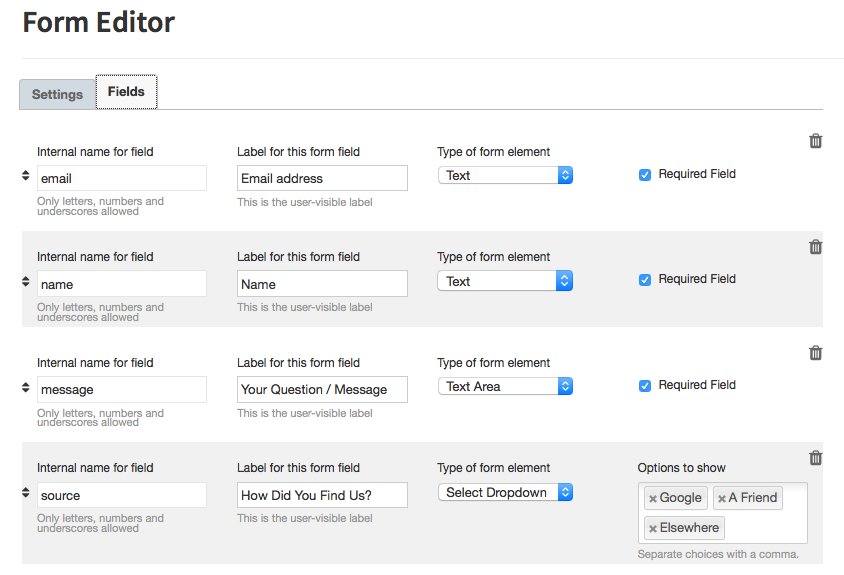
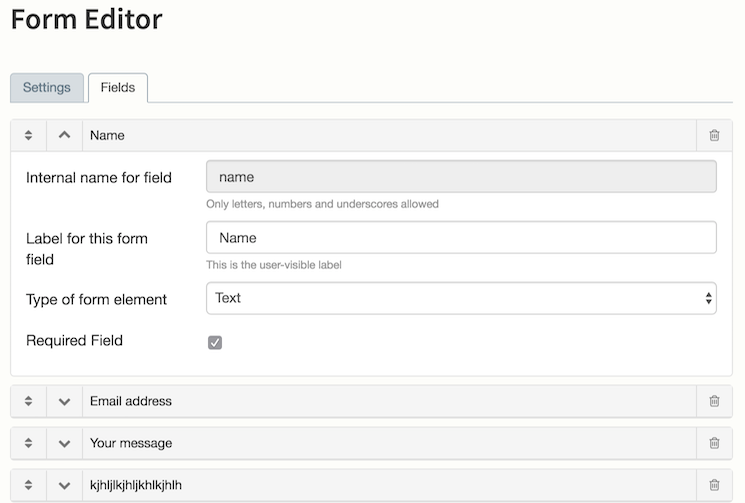
Added gulp fro development purposes. This will copy all the js and css files to the public extension folder. Renamed menu title Restyled the fields tab Removed the Bolt namespace for the javascript. Threw an error if Bolt didn't exist Added new screenshot with new style

diff --git a/assets/formeditor.js b/assets/formeditor.js
@@ -1,49 +1,71 @@
-Bolt.formeditor = {
-    
+formeditor = {
     fieldCollectionCount: 0,
-    
+
     init: function() {
         var controller = this;
         $("#form_field_add").on('click', function(){
             controller.addField();
         });
-        
-        $("#form_fields").sortable();
-        $('#form_fields select.choices-row').select2({tags: true, tokenSeparators: [',']});
-        
-        $('#form_fields').on('click', '.delete-icon .form-row-delete', function(e){ 
-            controller.deleteField($(this));      
+
+        $("#form_field_list").sortable({
+            placeholder: 'field-group-placeholder'
+        });
+
+        $('.field-group select.choices-row').select2({
+            tags: true,
+            tokenSeparators: [',']
+        });
+
+        $('.field-group').on('click', '.form-row-delete', function(e){
+            controller.deleteField($(this));
             e.preventDefault();
         });
-        
+
+        $('.field-group').on('click', '.expandEditor', function(e){
+            controller.toggleEditor($(this));
+            e.preventDefault();
+        });
+
         $("#sidebarformdelete").on('submit', function(e){
             if(!confirm("Are you sure you want to permanently delete this form?") ) {
                 e.preventDefault();
             }
-        }); 
-        
-        $('#form_fields').on('change', 'select.type-row', function(){
+        });
+
+        $('.field-group').on('change', 'select.type-row', function(){
             controller.handleConditionals();
-        }); 
-        controller.handleConditionals(); 
-        
+        });
+        controller.handleConditionals();
+
     },
-    
+
     addField: function() {
-        var html = $("#form_fields").data("prototype");
+        var html = $("#form_field_list").data("prototype"),
+            self = this,
+            proto;
+
         html = html.replace(/__name__/gi, this.fieldCollectionCount++);
-        var proto = $(html);
+        proto = $(html);
         proto.find('input').removeAttr('readonly');
         proto.find('select.choices-row').select2({tags: {}, tokenSeparators: [',']});
-        $("#form_fields").append(proto); 
-        $("#form_fields").sortable();
+        $("#form_field_list").append(proto);
+        $("#form_field_list").sortable({
+            placeholder: 'field-group-placeholder'
+        });
         this.handleConditionals();
+        $("#form_field_list .field-group")
+            .last()
+            .find('.expandEditor')
+            .click(function(e) {
+                self.toggleEditor($(this));
+                e.preventDefault();
+            });
         $(".name-row").last().focus();
     },
-    
+
     deleteField: function(trigger) {
         var dodelete = confirm("Are you sure you want to remove a field?");
-        
+
         if (dodelete) {
             var parent = trigger.closest('.form-field-row');
             var name = parent.find('input.name-row').val();
@@ -51,14 +73,14 @@ Bolt.formeditor = {
             parent.fadeOut('fast', function(){
                 parent.replaceWith(replace);
             });
-            
+
         }
     },
-    
+
     handleConditionals: function() {
-        $("#form_fields select.type-row").each(function(){
+        $("#form_field_list select.type-row").each(function(){
             varfieldtype = $(this).find("option:selected").val();
-            var parent = $(this).closest('.outer-row');
+            var parent = $(this).closest('.field-group-content');
             if(varfieldtype == 'choice' ) {
                 parent.find('.required-row-container').hide();
                 parent.find('.choices-row-container').show();
@@ -70,12 +92,22 @@ Bolt.formeditor = {
                 parent.find('.choices-row-container').hide();
             }
         });
+    },
+
+    toggleEditor: function ($obj) {
+        var block = $('.' + $obj.data('id'));
+
+        if (block.is(':visible')) {
+            $obj.removeClass('visible');
+            block.slideUp(350);
+        } else {
+            $obj.addClass('visible');
+            block.slideDown(350);
+        }
     }
-    
-}
 
-
+};
 
 jQuery(document).ready(function($) {
-    Bolt.formeditor.init(); 
+    formeditor.init();
 });

diff --git a/assets/formeditor.css b/assets/formeditor.css
@@ -1,60 +1,88 @@
-#form_fields .form-field-row {
-    position: relative;
+.field-group {
+    border-color: #D4D4D4 #D4D4D4 #BCBCBC;
+    margin-bottom: 8px;
+    background-color: #fff;
+    border: 1px solid #e3e3e3;
+    border-radius: 4px;
+    box-shadow: inset 0 1px 1px rgba(0,0,0,0.05);
 }
 
-#form_fields .outer-row {
-    border: 1px solid #E1E1E1;
-    border-radius: 15px;
-    box-shadow: 1px 1px 5px rgba(0, 0, 0, 0.1) inset;
+.field-group-content {
+    display: none;
+    padding-bottom: 16px;
 }
 
-#form_fields .form-field-row label {
-    font-size:12px;
-}
-#form_field_list {
-    margin-bottom:15px;
+.sortable-placeholder {
+    border: 1px dotted #ddd;
+    margin: 16px 0;
+    height: 40px;
 }
 
-#form_fields .form-field-row:nth-child(2n+0) {
-    margin:10px 0;
-} 
-#form_fields .form-field-row input {
-    width:100% !important;
+.field-row-container.form-group {
+    margin: 8px 0 0;
 }
-#form_fields .form-field-row small {
-    color:#999;
-    line-height:90%;
-    display: inline-block;
-    margin: 5px 0;
+
+.field-row-container .note {
+    color: #999;
+    font-size: .85em;
+    line-height: .85em;
+    padding: .5em 0;
 }
-#form_fields .form-field-row .select2-container {
-    width:100%;
+
+.field-row-container .select2-container {
+    width: 100% !important;
 }
-#form_fields .sort-handle {
-    float:left;
-    margin-top:40px;
-    margin-right:-10px;
+
+.field-row-container input[type=checkbox].form-control {
+    border-width: 0;
+    box-shadow: none;
 }
-#form_fields .delete-icon {
-    position: absolute;
-    right:0px;
-    top:5px;
-    z-index: 10;
+
+.itemTitle {
+    cursor: move;
+    -webkit-box-flex: 1;
+    -ms-flex-positive: 1;
+    flex-grow: 1;
+    margin: 0 7px;
 }
-#form_fields .form-row-delete {
-    color:#666;
+
+.flex-row {
+    background: #f5f5f5;
+    border-bottom: 1px solid #ddd;
+    display: -webkit-box;
+    display: -ms-flexbox;
+    display: flex;
+    width: 100%;
+    -webkit-box-align: center;
+    -ms-flex-align: center;
+    align-items: center;
 }
-#form_fields .required-row-container {
-    padding-top:28px;
+.no-grow {
+    -webkit-box-flex: 0;
+    -ms-flex-positive: 0;
+    flex-grow: 0;
+    border-right: 1px solid #ddd;
+    color: #777;
+    padding: 6px 11px;
+    text-align: center;
+    width: 36px;
 }
-#form_fields .required-row-container input {
-    width:auto;
-    float:left;
+.no-grow a {
+    color: #777;
 }
-#form_fields .required-row-container label {
-    display: inline;
+.no-grow:hover {
+    color: #333;
 }
-#form_fields .form-field-row:nth-child(2n+0) {
-    background: #f1f1f1;
-    margin:10px 0;
-} 
+.no-grow.deleteField:hover a {
+    color: #c9302c;
+}
+.no-grow:last-child {
+    border-left: 1px solid #ddd;
+    border-right: 0;
+}
+
+.expandEditor.visible i {
+    -webkit-transform: rotate(180deg);
+    -moz-transform: rotate(180deg);
+    transform: rotate(180deg);
+}

diff --git a/gulpfile.js b/gulpfile.js
@@ -1,0 +1,12 @@
+var gulp = require('gulp');
+
+gulp.task('move', function () {
+    gulp.src('assets/**/*')
+        .pipe(gulp.dest('../../../../public/extensions/local/rossriley/formeditor/'));
+});
+
+
+gulp.task('default', function () {
+    gulp.watch('assets/**/*', ['move']);
+});
+

diff --git a/src/Extension.php b/src/Extension.php
@@ -55,7 +55,7 @@ class Extension extends SimpleExtension
     {
         return [
             (new MenuEntry('formeditor', 'formeditor'))
-                ->setLabel(Trans::__('Edit Forms'))
+                ->setLabel(Trans::__('Form editor'))
                 ->setIcon('fa:pencil-square-o')
                 ->setPermission('admin||root||developer||editor'),
         ];
